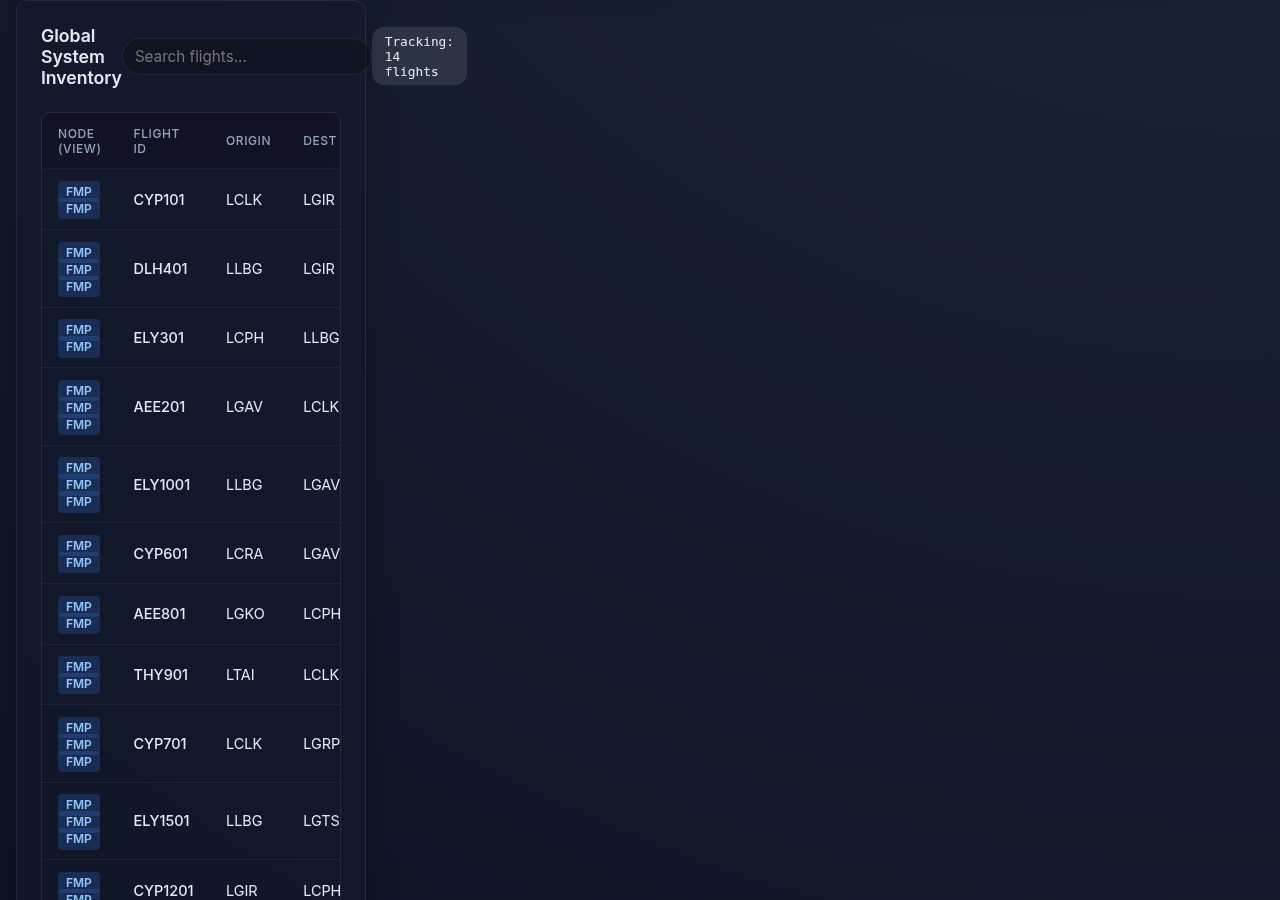
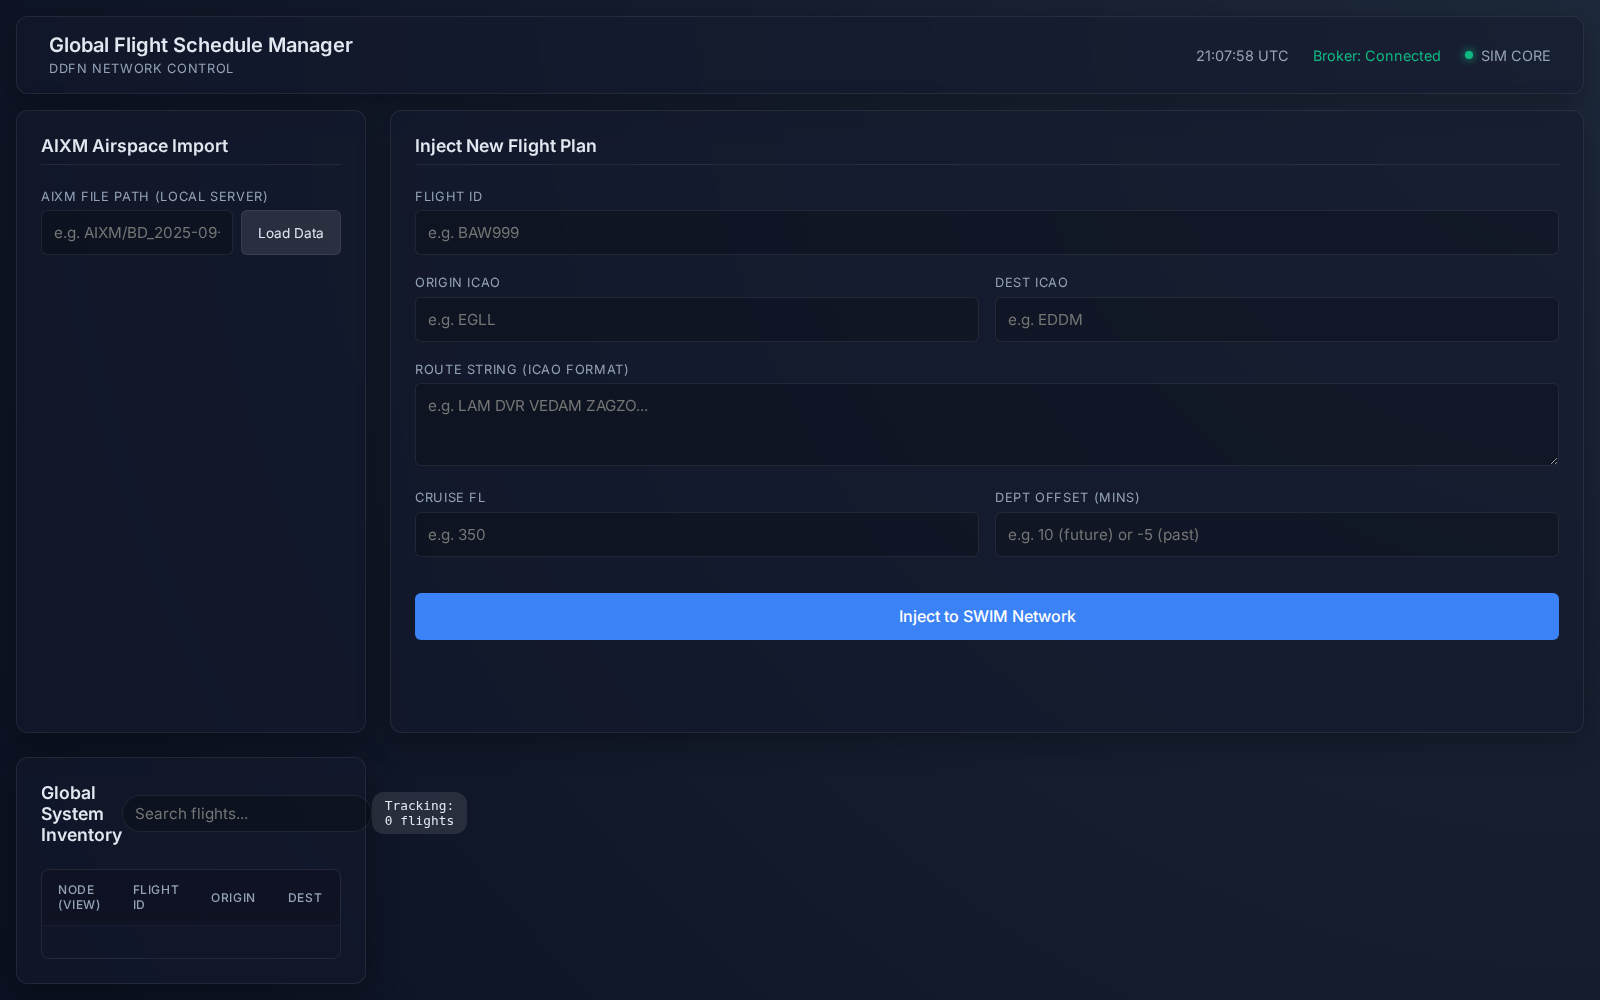
docs: Add airspace visualization screenshots showing FIR sector maps

diff --git a/README.md b/README.md
@@ -13,17 +13,81 @@ This system is a truly decentralized, drop-in replacement for traditional centra
 
 Below are screenshots of the DDFN v2 web dashboards captured from a running local cluster with **real AIXM airspace data** (BD_2025-09-30_400005921419525.xml) and **live injected traffic**.
 
+### Airspace Visualization
+
+The FMP dashboards feature interactive **Leaflet maps** with real AIXM sector boundaries, airports, airways, and live flight tracking.
+
+#### LCCC FIR (Cyprus) – Sector Map Overview
+Interactive map showing LCCC FIR sector boundaries and active traffic injected via the Sim Manager.
+
+![LCCC Overview](screenshots/lccc_overview.png)
+
+#### LCCC FIR – Airspace Configuration
+The Airspace Config tab with sector selection, airport/airway layer toggles, and the configuration map.
+
+![LCCC Config](screenshots/lccc_config.png)
+
+#### LCCC FIR – Airspace & Slots
+Real-time airspace inventory table showing sector demand, capacity, and slot assignments.
+
+![LCCC Airspace](screenshots/lccc_airspace.png)
+
+#### LGGG FIR (Greece) – Sector Map with Active Flights
+LGGG FIR showing Greek airspace sectors with injected flights traversing the region.
+
+![LGGG Overview](screenshots/lggg_overview.png)
+
+#### LGGG FIR – Airspace Configuration
+Airspace configuration panel for the LGGG node with sector visualization.
+
+![LGGG Config](screenshots/lggg_config.png)
+
+#### LGGG FIR – Airspace & Slots
+Airspace inventory and slot management view for LGGG FIR.
+
+![LGGG Airspace](screenshots/lggg_airspace.png)
+
+#### LLLL FIR (Israel) – Sector Map
+LLLL FIR sector boundaries and active traffic visualization.
+
+![LLLL Overview](screenshots/llll_overview.png)
+
+#### LLLL FIR – Airspace Configuration
+Configuration panel with map visualization for Israeli airspace.
+
+![LLLL Config](screenshots/llll_config.png)
+
+#### LLLL FIR – Airspace & Slots
+Airspace inventory table showing sector status for LLLL FIR.
+
+![LLLL Airspace](screenshots/llll_airspace.png)
+
+#### HECC FIR (Egypt) – Sector Map
+HECC FIR showing Egyptian airspace sectors.
+
+![HECC Overview](screenshots/hecc_overview.png)
+
+#### HECC FIR – Airspace Configuration
+Configuration panel for HECC node with sector map.
+
+![HECC Config](screenshots/hecc_config.png)
+
+#### HECC FIR – Airspace & Slots
+Airspace inventory and slot view for HECC FIR.
+
+![HECC Airspace](screenshots/hecc_airspace.png)
+
 ### Broker Audit Dashboard
 The central SWIM broker exposes an audit dashboard at `http://127.0.0.1:8001`, showing all active nodes in the distributed network and a live stream of CAPACITY_STATE_BROADCAST and AIRSPACE_INVENTORY_UPDATE messages.
 
 ![Broker Dashboard](screenshots/broker_dashboard.png)
 
 ### Simulation Manager
-The Sim Manager provides a centralized testing interface at `http://127.0.0.1:8050`. Here it tracks 14 injected flights (CYP101, DLH401, ELY301, AEE201, etc.) originating from real airports such as LCLK, LLBG, LGAV, LGIR, LCPH, LCRA, LGKO, LTAI, LGRP, and LGTS.
+The Sim Manager provides a centralized testing interface at `http://127.0.0.1:8050`. Here it tracks injected flights (CYP001, CYP002, GRC001, ISR001, EGY001, etc.) originating from real airports such as LCLK, LCPH, LCRA, LGAV, LLBG, HECA.
 
 ![Sim Manager](screenshots/sim_manager.png)
 
-### FMP Node Dashboards
+### FMP Node Dashboards (Legacy Table View)
 Each FMP node serves its own isolated dashboard on a dedicated port, configured from real AIXM FIR data.
 
 | Node | URL | FIR | Sectors | Screenshot |
